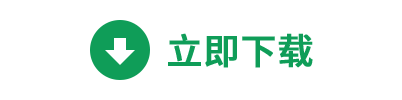
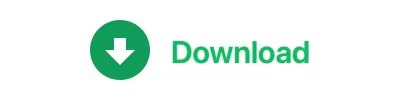
官网修改

diff --git a/public/index.html b/public/index.html
@@ -22,22 +22,21 @@
       rel="stylesheet"
       href="https://image.idealclover.cn/projects/Easy-to-Download/swiper-bundle.min.css"
     />
-    <!-- <link rel="stylesheet" href="statics/index.css" /> -->
     <link rel="stylesheet" href="statics/index.css" />
     <style>
       .web-download-android:hover {
-        content: url("statics/android_hover.png");
+        content: url("https://spfvpn.com/statics/android_hover.png");
       }
 
       .web-download-iphone:hover {
-        content: url("statics/iphone_hover.png");
+        content: url("https://spfvpn.com/statics/iphone_hover.png");
       }
     </style>
-    <!-- Global site tag (gtag.js) - Google Analytics -->
-    <script
+    <!-- Global site tag (gtag.js) - Google Analytics todo -->
+    <!-- <script
       async
-      src="https://www.googletagmanager.com/gtag/js?id=G-RP7NWBCL10"
-    ></script>
+      src="https://www..googletagmanagercom/gtag/js?id=G-RP7NWBCL10"
+    ></script> -->
     <script>
       window.dataLayer = window.dataLayer || [];
       function gtag() {
@@ -55,17 +54,17 @@
   >
     <div id="main">
       <div id="header" style="padding: 20px 0;" googl="true">
-        <div class="main" style="width: 100%;">
+        <div class="main" style="width: 1000px;">
           <a href="/">
             <span
               id="header-logo"
               style="display: flex;justify-content: left;align-items: center;"
             >
-              <img
-                style="height: 48px;margin-left: 100px;"
+              <!-- <img
+                style="height: 48px;margin-right: 10px;"
                 src="<%= DATA.logo %>"
                 alt=""
-              />
+              /> -->
               <span><%= DATA.title %></span>
             </span>
           </a>
@@ -80,18 +79,18 @@
             <div class="text-group">
               <div class="weui-flex logo-box">
                 <div class="weui-flex__item">
-                  <img
+                  <!-- <img
                     class="logo"
                     src="<%= DATA.logo %>"
                     alt="<%= DATA.title %>"
-                  />
+                  /> -->
                 </div>
               </div>
               <div class="weui-flex">
                 <div class="weui-flex__item">
-                  <p class="title"><%= DATA.title %></p>
+                  <!-- <p class="title"><%= DATA.title %></p> -->
                   <p class="sub-title mobile-display">
-                    <%= DATA.detail %>
+                    <%= DATA.title %>
                   </p>
                   <p class="sub-title pc-display">
                     <%= DATA.detail %>
@@ -101,10 +100,10 @@
               <div class="download-group">
                 <div>
                   <figure class="image">
-                    <img src="" class="insert-qrcode" alt="Scan Download APP" />
+                    <img src="statics/image_qr.png" alt="GooglePlay Download SPF App" />
                   </figure>
                   <p style="font-size: 13px;align-self: center;">
-                    Scan Download APP
+                    GooglePlay App
                   </p>
                 </div>
 
@@ -120,23 +119,23 @@
                   >
                     <img
                       class="web-download-"
-                      src="statics/android_normal.png"
-                      alt="Download Android"
+                      src="https://spfvpn.com/statics/android_normal.png"
+                      alt="GooglePlay App"
                       style="height: 60px;"
                     />
                   </a>
-                  <!-- <a
+                  <a
                     class="web-download-iphone"
                     href="<%= DATA.iOS %>"
                     target="_blank"
                     style="height: 60px;"
                   >
                     <img
-                      src="statics/iphone_normal.png"
-                      alt="Download IOS"
+                      src="https://spfvpn.com/statics/iphone_normal.png"
+                      alt="AppleStore App"
                       style="height: 60px;"
                     />
-                  </a> -->
+                  </a>
                 </div>
               </div>
               <div id="mobile-download-box" class="weui-flex">
@@ -149,8 +148,8 @@
                       data-android="<%= DATA.Android %>"
                     >
                       <img
-                        src="https://image.idealclover.cn/projects/Easy-to-Download/download_now.png"
-                        alt="立即下载"
+                        src="https://spfvpn.com/statics/download_now.png"
+                        alt="Download App"
                       />
                     </a>
                     <button
@@ -158,13 +157,13 @@
                       class="share"
                     >
                       <span style="font-size: 16px;color:#888;"
-                        >分享此应用</span
+                        >Share App</span
                       >
                     </button>
                   </div>
                 </div>
               </div>
-              
+          
             </div>
             <div class="weui-flex image-group">
               <div class="weui-flex__item large-image-box">
@@ -180,26 +179,25 @@
                     <div class="swiper-slide swiper-slide-prev" role="group">
                       <img
                         class="large-image"
-                        src="statics/banner1.jpeg"
-                        alt="home"
+                        src="https://spfvpn.com/statics/ss_1.png"
+                        alt=""
                       />
                     </div>
                     <div class="swiper-slide swiper-slide-active" role="group">
                       <img
                         class="large-image"
-                        src="statics/banner2.jpeg"
-                        alt="select app"
+                        src="https://spfvpn.com/statics/ss_2.png"
+                        alt=""
                       />
                     </div>
-                    <!-- <div class="swiper-slide swiper-slide-next" role="group">
+                    <div class="swiper-slide swiper-slide-next" role="group">
                       <img
                         class="large-image"
-                        src="statics/banner3.jpeg"
-                        alt="select region"
+                        src="https://spfvpn.com/statics/ss_3.png"
+                        alt=""
                       />
-                    </div> -->
+                    </div>
                   </div>
-                  <!-- 如果需要分页器 -->
                   <div class="swiper-pagination swiper-pagination-bullets">
                     <span class="swiper-pagination-bullet"></span>
                     <span class="swiper-pagination-bullet"></span>
@@ -219,27 +217,53 @@
                 </div>
               </div>
             </div>
-          
+        
           </div>
         </div>
       </div>
       <div id="footer" styld="z-index: 10;">
-        ©2022
+        ©2022 <a href="https://spfvpn.com" target="_blank">SPF VPN</a>
       </div>
       <div style="display: none;">
         <img
           src="https://image.idealclover.cn/projects/Easy-to-Download/android_hover.png"
-          alt="立即下载"
+          alt="Download App"
         />
         <img
           src="https://image.idealclover.cn/projects/Easy-to-Download/iphone_hover.png"
-          alt="立即下载"
+          alt="Download App"
         />
       </div>
     </div>
-  
+    
+        <style>
+      .github-corner:hover .octo-arm {
+        animation: octocat-wave 560ms ease-in-out;
+      }
+      @keyframes octocat-wave {
+        0%,
+        100% {
+          transform: rotate(0);
+        }
+        20%,
+        60% {
+          transform: rotate(-25deg);
+        }
+        40%,
+        80% {
+          transform: rotate(10deg);
+        }
+      }
+      @media (max-width: 500px) {
+        .github-corner:hover .octo-arm {
+          animation: none;
+        }
+        .github-corner .octo-arm {
+          animation: octocat-wave 560ms ease-in-out;
+        }
+      }
+    </style>
     <section class="wechat-tips">
-      <!-- 内容为背景图 -->
     </section>
     <script src="https://image.idealclover.cn/projects/Easy-to-Download/weui.min.js"></script>
     <script src="https://image.idealclover.cn/projects/Easy-to-Download/swiper-bundle.min.js"></script>
@@ -256,12 +280,11 @@
       });
 
       var mySwiper = new Swiper(".swiper-container", {
-        direction: "horizontal", // 垂直切换选项
-        loop: true, // 循环模式选项
+        direction: "horizontal", 
+        loop: true, 
         autoplay: {
-          delay: 4000, //1秒切换一次
+          delay: 4000, 
         },
-        // 如果需要分页器
         pagination: {
           el: ".swiper-pagination",
         },

diff --git a/public/statics/index.css b/public/statics/index.css
@@ -1,4 +1,4 @@
-/* 通用设置 */
+
 body::-webkit-scrollbar {
   display: none;
 }
@@ -29,8 +29,7 @@ p {
 }
 
 #main {
-  /* background-image: url("https://spfvpn.com/statics/bg5.jpg"); */
-  background-image: url("http://localhost:4000/statics/bg6.png");
+  background-image: url("https://spfvpn.com/statics/bg5.jpg");
   background-size: 100% 100%;
   background-repeat: no-repeat;
   -webkit-background-size: cover;
@@ -179,12 +178,6 @@ p {
   font-size: 13px;
 }
 
-.page-download {
-  background-image: url("/static/web/v8/images/bg_v10.png");
-  padding-bottom: 40px;
-  -webkit-background-size: cover;
-  background-size: cover;
-}
 
 #mobile-download-box {
   margin-top: 30px;
@@ -423,7 +416,7 @@ p {
   }
 
   #main-content {
-    width: 1500px;
+    width: 1000px;
     display: flex;
     justify-content: space-between;
     align-items: center;
@@ -445,7 +438,7 @@ p {
 
   #first_screen .text-group {
     align-self: center;
-    margin-left: 200px;
+    margin-right: 40px;
   }
 
   #first_screen .logo-box {
